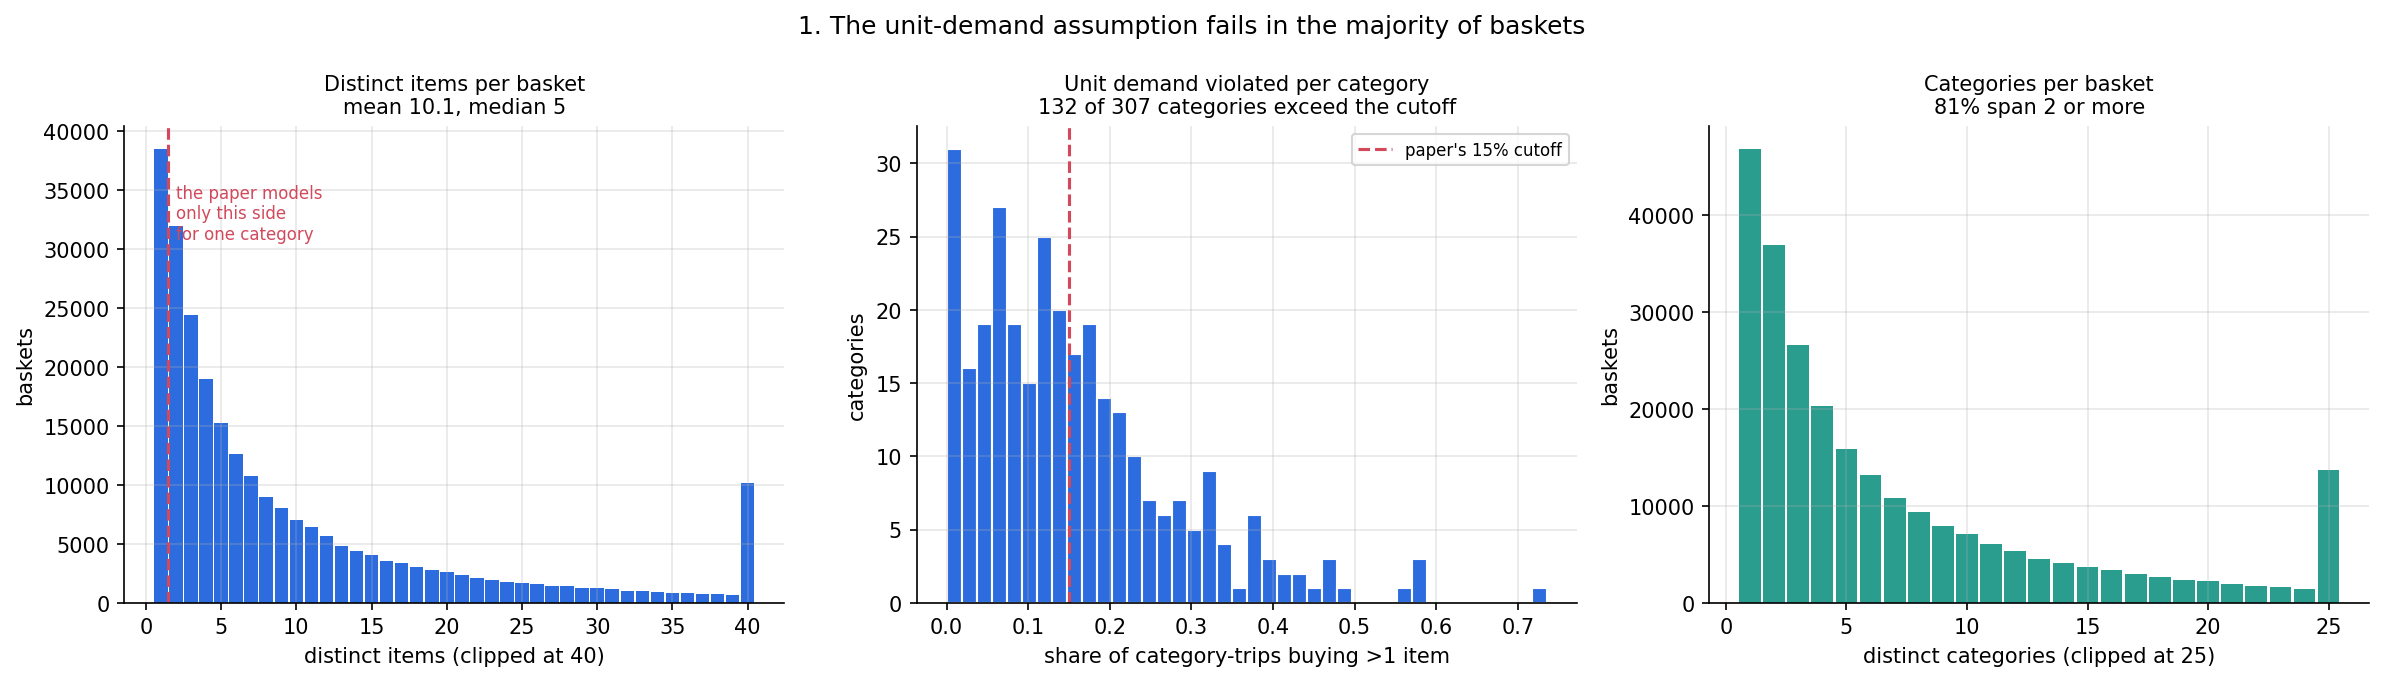
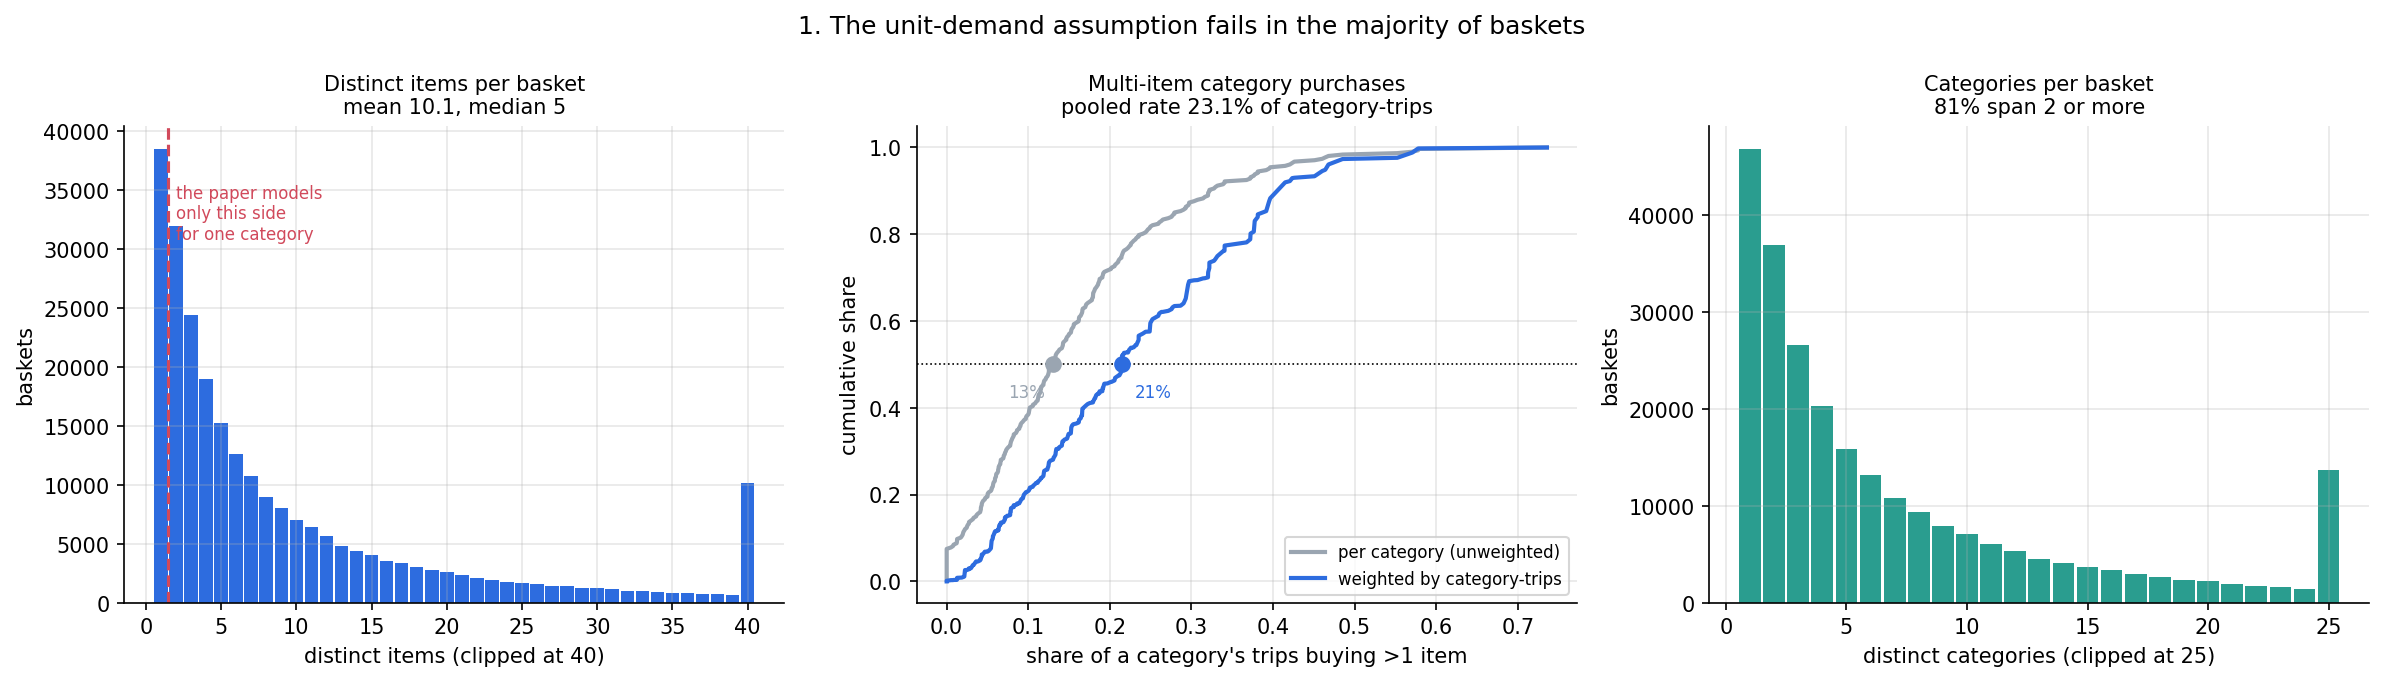
Fix the multi-item panel: it was unweighted, ragged, and misdescribed
Asked how the middle panel of figure 1 was plotted and why it was not monotone.
Answering properly turned up three problems, one of them substantive.

It was a 40-bin histogram of 307 category-level shares.  Non-monotone is correct
for a density -- only a cumulative plot has to increase -- but the panel had real
faults:

1. The text claimed "the distribution is smooth" with "no natural cut point".
   At 40 bins over 307 categories there are ~10 categories per bin, so the shape
   visible in the panel is mostly binning noise.  The claim was not supported by
   the plot it cited.

2. Unweighted.  Each category counted once whether it saw 200 category-trips or
   68,000, which answers "how are categories distributed" when the question is
   "how often does a shopper meet this behaviour".

3. That mattered quantitatively.  The unweighted median of 13.1% -- the number
   quoted in the document -- understates the shopper-facing rate by nearly half:
   trip-weighted it is 21.5% and the pooled rate across all category-trips is
   23.1%.

The panel is now a cumulative distribution with both curves plotted, unweighted
and trip-weighted, with the two medians marked.  Monotone by construction, and
the gap between the curves is the finding rather than an artefact to explain away.

The text now reads the panel correctly and adds the eight highest-traffic
categories, which show where the behaviour concentrates: soft drinks 41.5%, bag
[…]

diff --git a/scripts/21_basket_eda.py b/scripts/21_basket_eda.py
@@ -116,8 +116,18 @@ def main(a):
     r["unit_demand"]["categories_over_15pct"] = int((cm.multi_share > 0.15).sum())
     r["unit_demand"]["categories_total"] = int(len(cm))
     r["unit_demand"]["median_category_multi_share"] = float(cm.multi_share.median())
-    log(f"   per category: {int((cm.multi_share > 0.15).sum())} of {len(cm)} exceed the "
-        f"paper's 15% threshold (median {cm.multi_share.median():.1%})")
+    # Trip-weighted, which is what a shopper actually meets: the unweighted median
+    # counts a 200-trip category the same as a 68,000-trip one.
+    r["unit_demand"]["pooled_multi_share"] = float(
+        (cm.multi_share * cm.cat_trips).sum() / cm.cat_trips.sum())
+    _o = cm.sort_values("multi_share")
+    _c = _o.cat_trips.cumsum()
+    r["unit_demand"]["trip_weighted_median_multi_share"] = float(
+        _o.multi_share.to_numpy()[np.searchsorted(_c.to_numpy(), _c.iloc[-1] / 2)])
+    log(f"   per category: median {cm.multi_share.median():.1%} of a category's trips "
+        f"buy >1 item, but trip-weighted "
+        f"{r['unit_demand']['trip_weighted_median_multi_share']:.1%} and pooled "
+        f"{r['unit_demand']['pooled_multi_share']:.1%}")
 
     # =================================================== 2. what is a basket?
     # =================================================== 3. co-occurrence structure
@@ -296,12 +306,35 @@ def main(a):
               f"{bas.n_items.median():.0f}", "distinct items (clipped at 40)", "baskets")
 
     ax = axes[1]
-    ax.hist(cm.multi_share, bins=40, color=PALETTE["blue"], edgecolor="white")
-    ax.axvline(0.15, color=PALETTE["red"], ls="--", lw=1.5, label="paper's 15% cutoff")
-    style(ax, f"Unit demand violated per category\n{(cm.multi_share > 0.15).sum()} of "
-              f"{len(cm)} categories exceed the cutoff",
-          "share of category-trips buying >1 item", "categories")
-    ax.legend(fontsize=8)
+    # Cumulative and trip-weighted, for two reasons.  A 40-bin histogram of 307
+    # category-level numbers averages ~10 categories per bin, so its shape is mostly
+    # binning noise -- it cannot support a claim about the distribution being smooth.
+    # And an unweighted histogram counts a category with 200 category-trips the same
+    # as one with 68,000, which answers "how are categories distributed" when the
+    # question is "how often does a shopper meet this behaviour".  Trip-weighting
+    # moves the median from 13.1% to 21.5%.
+    s = cm.sort_values("multi_share")
+    x = s.multi_share.to_numpy()
+    ax.plot(x, np.arange(1, len(x) + 1) / len(x), lw=2, color=PALETTE["grey"],
+            label="per category (unweighted)")
+    w = s.cat_trips.to_numpy()
+    ax.plot(x, np.cumsum(w) / w.sum(), lw=2, color=PALETTE["blue"],
+            label="weighted by category-trips")
+    med_u = float(np.median(x))
+    med_w = float(x[np.searchsorted(np.cumsum(w), w.sum() / 2)])
+    ax.axhline(.5, color="k", lw=.8, ls=":")
+    ax.plot([med_u], [.5], "o", color=PALETTE["grey"], ms=7)
+    ax.plot([med_w], [.5], "o", color=PALETTE["blue"], ms=7)
+    ax.annotate(f"{med_u:.0%}", (med_u, .5), textcoords="offset points",
+                xytext=(-4, -16), fontsize=8, color=PALETTE["grey"], ha="right")
+    ax.annotate(f"{med_w:.0%}", (med_w, .5), textcoords="offset points",
+                xytext=(6, -16), fontsize=8, color=PALETTE["blue"])
+    style(ax, f"Multi-item category purchases\npooled rate "
+              f"{(cm.multi_share * cm.cat_trips).sum() / cm.cat_trips.sum():.1%} of "
+              f"category-trips",
+          "share of a category's trips buying >1 item",
+          "cumulative share")
+    ax.legend(fontsize=8, loc="lower right")
 
     ax = axes[2]
     vc2 = bas.n_cats.clip(upper=25).value_counts().sort_index()

diff --git a/DATA_EXPLORATION.md b/DATA_EXPLORATION.md
@@ -1,9 +1,5 @@
 # Data exploration: dunnhumby "The Complete Journey"
 
-What 2,500 households actually did over two years of grocery shopping, measured
-directly from the transaction file. This document describes the data. It does not
-argue for or against any model, and nothing in it depends on one having been fitted.
-
 **Source.** `transaction_data.csv`: 2,553,406 purchase lines, 2,500 households, 91,856
 products, 253,183 baskets, 711 days, 307 commodities, 2,373 sub-commodities. Prices
 are reconstructed from `SALES_VALUE` and the three discount columns; that
@@ -47,14 +43,35 @@ A basket is not one item, and it is often not one item per category either.
 | categories where >15% of category-trips buy 2+ items | **132 of 307** |
 | median category's multi-item share | 13.1% |
 
-Read the middle panel carefully. Buying two or more items from the same category is
-not a fringe behaviour concentrated in a few odd categories — the **median category
-does it on 13.1% of its category-trips**, and the distribution is smooth. There is no
-natural cut point separating "single-item categories" from the rest; the behaviour is
-continuous across the catalogue.
+**The middle panel** is cumulative: for a given share on the x-axis, it reads off what
+fraction of categories buy multiple items *at most* that often. Two curves, and the
+gap between them is the point.
 
-Multi-item category purchases are therefore the norm rather than the exception at the
-basket level: **56.1%** of baskets contain at least one.
+- **Grey — one point per category, unweighted.** Median **13.1%**.
+- **Blue — weighted by how many category-trips each category actually gets.** Median
+  **21.5%**, and the pooled rate across all category-trips is **23.1%**.
+
+The unweighted number understates what a shopper meets by nearly half, because it
+counts a category with 200 category-trips the same as one with 68,000. The categories
+shoppers encounter most are precisely the multi-buy ones:
+
+| category | category-trips | buys 2+ items |
+|---|---|---|
+| SOFT DRINKS | 68,000 | **41.5%** |
+| BAG SNACKS | 41,100 | **39.5%** |
+| CHEESE | 46,100 | **37.8%** |
+| BAKED BREAD/BUNS/ROLLS | 59,300 | 29.6% |
+| BEEF | 36,200 | 25.0% |
+| FLUID MILK PRODUCTS | 67,700 | 21.5% |
+| TROPICAL FRUIT | 32,200 | 5.5% |
+| EGGS | 27,600 | 2.2% |
+
+So the behaviour is not confined to a few odd categories. It concentrates in the
+high-traffic ones — drinks, snacks, cheese, bread — while eggs and tropical fruit
+really are close to one-item purchases.
+
+At the basket level this compounds: **56.1%** of baskets contain at least one category
+bought two or more times.
 
 ---
 
